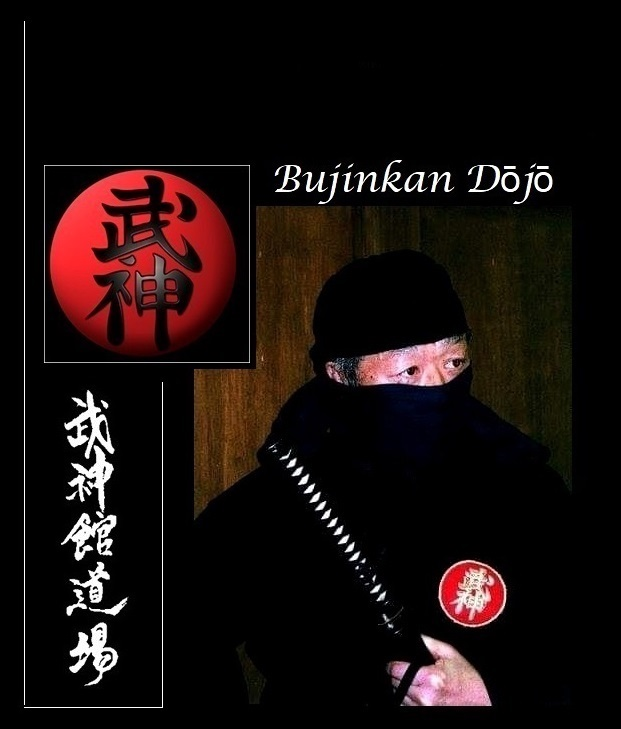
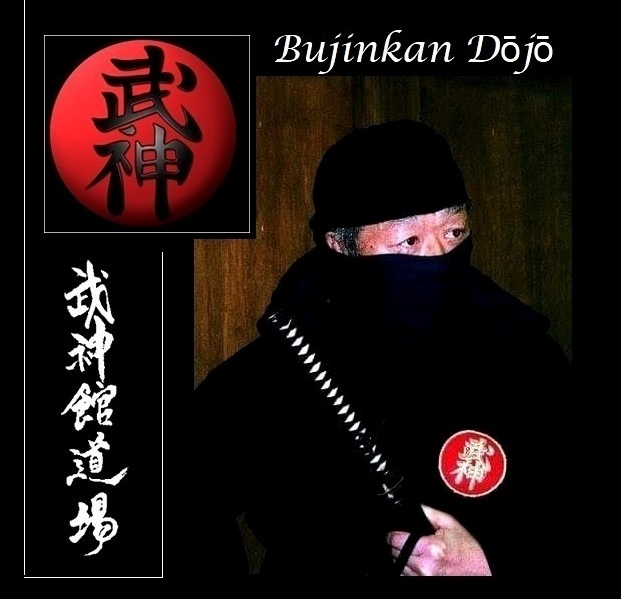
Versión mejorada de html y css

Changed region(s): [[0.0306, 0.0601, 0.9179, 0.9917], [0.7649, 0.0601, 0.8873, 0.1202]]

diff --git a/Dojo.html b/Dojo.html
@@ -16,16 +16,13 @@
         <br>
         <nav>
             <a href="Index.html">Inicio</a>
-            <!--escribiendo la a y haciendo enter aparece todo lo relacionado a
-            href donde debemos indicar la ruta a donde queremos ir, navegar, en este caso es
-            un enlace interno o local, de nuestra pag-->
+            <!--enlace interno o local, de nuestro sitio-->
             <br>
             <a href="Dojo.html">Dojo</a>
-            <!--escribiendo la a y haciendo enter aparece todo lo relacionado a
-            href donde debemos indicar la ruta a donde queremos ir, navegar, en este caso es
-            un enlace interno o local, de nuestra pag-->
+            <!--enlace interno o local, de nuestro sitio-->
             <br>
             <a href="Arte.html">Arte Marcial</a>
+            <!--enlace interno o local, de nuestro sitio-->
         </nav>
         <br>
     </header>
@@ -66,27 +63,35 @@
                     proteger y la habilidad de proteger. En japonés esto se llama ningensei.” Masaaki Hatsumi Sensei</p>
             </div>
         </section>
+        <br>
         <section>
             <div>
                 <img src="fotos_ninjutsu/junantaiso.jpg" alt="Clase al aire libre"
-                    alt="Shihan Patricia Leal, Ningensei Dojo" width="450" height="500">
+                    alt="Shihan Patricia Leal, Ningensei Dojo" width="450" height="500">                
+            </div>
+            <br>
+            <div>
+                <p>El entrenamiento marcial implica:
+                    <ul>
+                        <li>Acondicionamiento físico: desarrollo de flexibilidad, fortaleza física, resistencia, equilibrio, reflejos, agilidad, destreza, refinamiento de los sentidos</li>
+                        <li>Aprendizaje de técnicas tradicionales sin armas</li>
+                        <li>Aprendizaje de manejo de armas</li>
+                        <li>Aplicación estratégica en combate real</li>
+                        <li>Desarrollo del propio estilo de combate fundado en los conocimientos adquiridos (Taijutsu libre)</li>
+                        <li>Entrenamiento mental, de los sentidos sutiles como la intuición y desarrollo espiritual</li>
+                        <li>Filosofía y conocimientos de historia y cultura japoneses en relación al arte</li>
+                    </ul>
+            </div>
+            <br>
+            <div>
                 <img src="fotos_ninjutsu/secuencia_geri.jpg" alt="Técnicas sin armas"
                     alt="Shihan Patricia Leal, Ningensei Dojo" width="700" height="400">
             </div>
             <div>
-                <p>El entrenamiento marcial implica:
-                <ul>
-                    <li>Acondicionamiento físico: desarrollo de flexibilidad, fortaleza física, resistencia, equilibrio,
-                        reflejos, agilidad, destreza, refinamiento de los sentidos</li>
-                    <li>Aprendizaje de técnicas tradicionales sin armas</li>
-                    <li>Aprendizaje de manejo de armas</li>
-                    <li>Aplicación estratégica en combate real</li>
-                    <li>Desarrollo del propio estilo de combate fundado en los conocimientos adquiridos (Taijutsu libre)
-                    </li>
-                    <li>Entrenamiento mental, de los sentidos sutiles como la intuición y desarrollo espiritual</li>
-                    <li>Filosofía y conocimientos de historia y cultura japoneses en relación al arte</li>
-                </ul>
+                <p>Dojo es el espacio de entrenamiento y aprendizaje del budoka (practicante de artes marciales).
+                Es el lugar del Camino donde cada estudiante de Budo (camino marcial) encuentra su propio camino personal.</p>
             </div>
+
         </section>
     </main>
     <br>
@@ -94,9 +99,8 @@
         <!-- LINKS-ENLACES-->
         <a href="https://www.instagram.com/bujinkan_patricia/" target="_bLank">Instagram<img
                 src="fotos_ninjutsu/logo_instagram.jpg" alt="Logo Instagram" width="50" height="50"></a>
-        <!-- cuando colocamos una ruta externa a
-    nuestra página aparece el https y para que no se cierre nuestro sitio al derivarlo a la otra pagina
-    lo que hacemos es colocar target="_bLanck" y de esa forma el enlace se abre en una pestaña nueva-->
+        <!--ruta externa a mi página, para que no se cierre mi sitio al derivarlo a la otra pagina
+        lo que hago es colocar target="_bLanck" y de esa forma el enlace se abre en una pestaña nueva-->
         <br>
         <br>
         <a href="https://www.facebook.com/bujinkanningenseidojo" target="_bLank">Facebook Perfil<img
@@ -105,6 +109,7 @@
         <br>
         <a href="https://www.facebook.com/NinjutsuBahiaBlanca" target="_bLank">Facebook Página<img
                 src="fotos_ninjutsu/logo_pag_facebook.jpg" alt="Logo Página Facebook" width="50" height="50"></a>
+        <br>
         <br>
         <p>Todos los derechos reservados</p>
     </footer>

diff --git a/Index.html b/Index.html
@@ -15,9 +15,9 @@
 
 <body>
   <header>
-    <img src="fotos_ninjutsu/logo_ningensei.jpg" alt="Logo dojo" alt="Ningensei Dojo Logo" width="30" height="90">
+    <img src="fotos_ninjutsu/logo_ningensei.jpg" alt="Logo dojo" alt="Ningensei Dojo Logo" width="30" height="90"> <!--imagen-->
     <br>
-    <nav>
+    <nav> <!--para navegar dentro del sitio web-->
       <ol>
         <!-- ol es una lista ordenada -->
         <li><a href="Index.html">Inicio</a><!--para acceder al inicio del sitio web--></li>
@@ -31,12 +31,12 @@
     <section>
       <div>
         <h1 id="titulo_inicial">BUDŌ TAIJUTSU</h1><!--Título principal-->
-        <h2>NINJUTSU</h2><!--Título secundario-->
+        <h2 id="titulo_secundario">NINJUTSU</h2><!--Título secundario-->
         <h3>Bahía Blanca, Provincia de Buenos Aires, Argentina</h3><!--Tercer título-->
       </div>
       <div>
         <img src="fotos_ninjutsu/soke_ninja.jpg" alt="Portada_fondo" alt="Masaaki Hatsumi Ninja" width="700"
-          height="800"><!--Imagen-->
+          height="700"><!--Imagen-->
       </div>
       <div>
         <p>En Bujinkan (Casa del Divino Guerrero o Guerrero Espiritual) estudiamos 9 estilos antiguos de artes marciales
@@ -74,9 +74,11 @@
           <li>Campamentos y Seminarios</li>
           <li>Credenciales y Diplomas Oficiales</li>
         </ul>
+        <br>
         <p>CLASES PARA ADULTOS Y ADOLESCENTES, VARIOS HORARIOS</p><!--Párrafo-->
         <p>CLASES PARA NIÑOS Y NIÑAS DE 6 A 12 AÑOS</p><!--Párrafo-->
       </div>
+      <br>
       <div>
         <img src="fotos_ninjutsu/logo_whatsapp.jpg" alt="Logo Whatsapp" width="50" height="50"><!--Imagen ícono de whatsapp-->
       </div>
@@ -85,6 +87,7 @@
       </div>
     </section>
     <br>
+    <br>
     <section>
       <!--FORMULARIO-->
       <div>
@@ -92,10 +95,11 @@
         <p>Complete y envíe el formulario y pronto recibirá una respuesta:</p>
         <form action="" method="" enctype="">
       </div>
+      <br>
       <div>
         <label for="nombre">Nombre:</label>
         <input type="text" id="nombre" placeholder="Ingrese su nombre" name="nombre">
-        <!--en el input el tipo es texto porque el usuario va a ingresar ahi un string(cadena de caracteres, texto), su info.
+        <!--en el input el tipo es text porque el usuario va a ingresar ahi un texto), su info.
         El id se relaciona al for. El placeholder es para poner un texto guía dentro del cuadro del input.
         El name es para guardarlo como variable para llamarla despues-->
       </div>
@@ -154,12 +158,13 @@
     <br>
     <a href="https://www.facebook.com/bujinkanningenseidojo" target="_bLank">Facebook Perfil<img
         src="fotos_ninjutsu/logo_facebook_perfil.jpg" alt="Logo Perfil Facebook" width="50" height="50"></a>
-    <!--Link externo que lleva al perfil de Facebook e ícono del mismo, se puede acceder tanto haciendo clic en el texto como el el ícono-->
+    <!--Link externo que lleva al perfil de Facebook e ícono del mismo, se puede acceder tanto haciendo clic en el texto como en el ícono-->
     <br>
     <br>
     <a href="https://www.facebook.com/NinjutsuBahiaBlanca" target="_bLank">Facebook Página<img
         src="fotos_ninjutsu/logo_pag_facebook.jpg" alt="Logo Página Facebook" width="50" height="50"></a>
     <!--Link externo que lleva a la página de Facebook e ícono del mismo-->
+    <br>
     <br>
     <p>Todos los derechos reservados</p><!--Párrafo-->
     <br>

diff --git a/Arte.html b/Arte.html
@@ -40,15 +40,7 @@
             </p>
         </div>
         <br>
-        <section>
-            <div>
-                <h2>Banner publicitario</h2>
-                <iframe width="560" height="315" src="https://www.youtube.com/watch?v=zzv7zdAJmYQ"
-                    title="YouTube video player" frameborder="0"
-                    allow="accelerometer; autoplay; clipboard-write; encrypted-media; gyroscope; picture-in-picture"
-                    allowfullscreen></iframe>
-            </div>
-        </section>
+
         <section>
             <div>
                 <p>Los 9 (Ryu) estilos o tradiciones marciales que se estudian en Bujinkan Dojo son:</p>
@@ -65,6 +57,7 @@
                 </ol>
             </div>
         </section>
+        <br>
         <section>
             <div>
                 <img src="fotos_ninjutsu/meditacion.jpg" alt="Meditación" alt="Shihan Patricia Leal, Ningensei Dojo"
@@ -158,9 +151,8 @@
         <!-- LINKS-ENLACES-->
         <a href="https://www.instagram.com/bujinkan_patricia/" target="_bLank">Instagram<img
                 src="fotos_ninjutsu/logo_instagram.jpg" alt="Logo Instagram" width="50" height="50"></a>
-        <!-- cuando colocamos una ruta externa a
-    nuestra página aparece el https y para que no se cierre nuestro sitio al derivarlo a la otra pagina
-    lo que hacemos es colocar target="_bLanck" y de esa forma el enlace se abre en una pestaña nueva-->
+        <!-- ruta externa a mi página, aparece el https, y para que no se cierre mi sitio al derivarlo a la otra pagina
+    lo que hago es colocar target="_bLanck" y de esa forma el enlace se abre en una pestaña nueva-->
         <br>
         <br>
         <a href="https://www.facebook.com/bujinkanningenseidojo" target="_bLank">Facebook Perfil<img
@@ -169,6 +161,7 @@
         <br>
         <a href="https://www.facebook.com/NinjutsuBahiaBlanca" target="_bLank">Facebook Página<img
                 src="fotos_ninjutsu/logo_pag_facebook.jpg" alt="Logo Página Facebook" width="50" height="50"></a>
+        <br>
         <br>
         <p>Todos los derechos reservados</p>
         <br>

diff --git a/css/estilos.css b/css/estilos.css
@@ -32,10 +32,15 @@ es decir a esta clase dentro de este tipo de elemento*/
 
 /* # es un id, es un selector unico, las caracteristicas que se elijan se aplicaránsolo a este elemento*/
 #titulo_inicial {
-    font-size: 50px;
+    font-size: 100px;
     text-align: center;
 } /*las caractiristicas elegidas se aplican solo a este elemento, titulo en este caso,
 al que le pongo este id y este nombre en mi cod html*/
+
+#titulo_secundario {
+    font-size: 50px;
+    text-align: left;
+}
 
 /* Esto es para hacer colores degradados */
 .gradiente {
